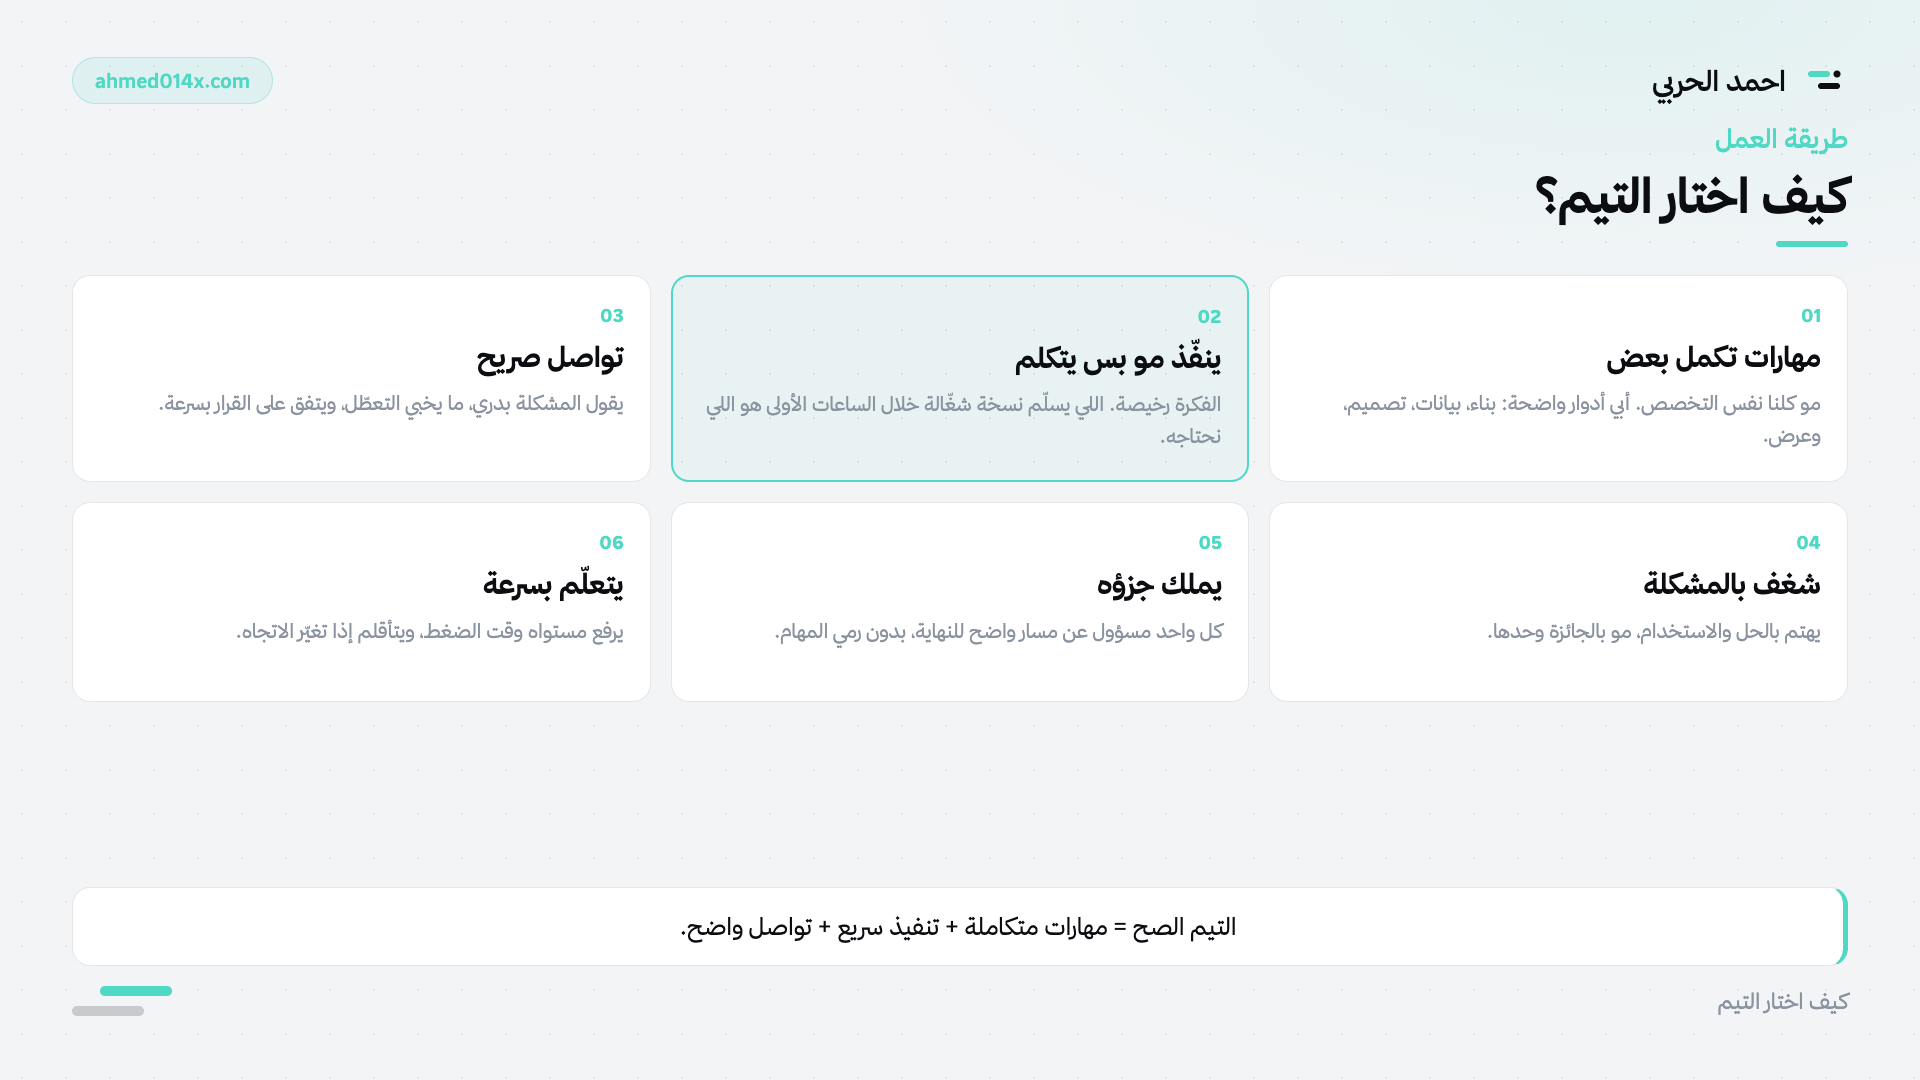
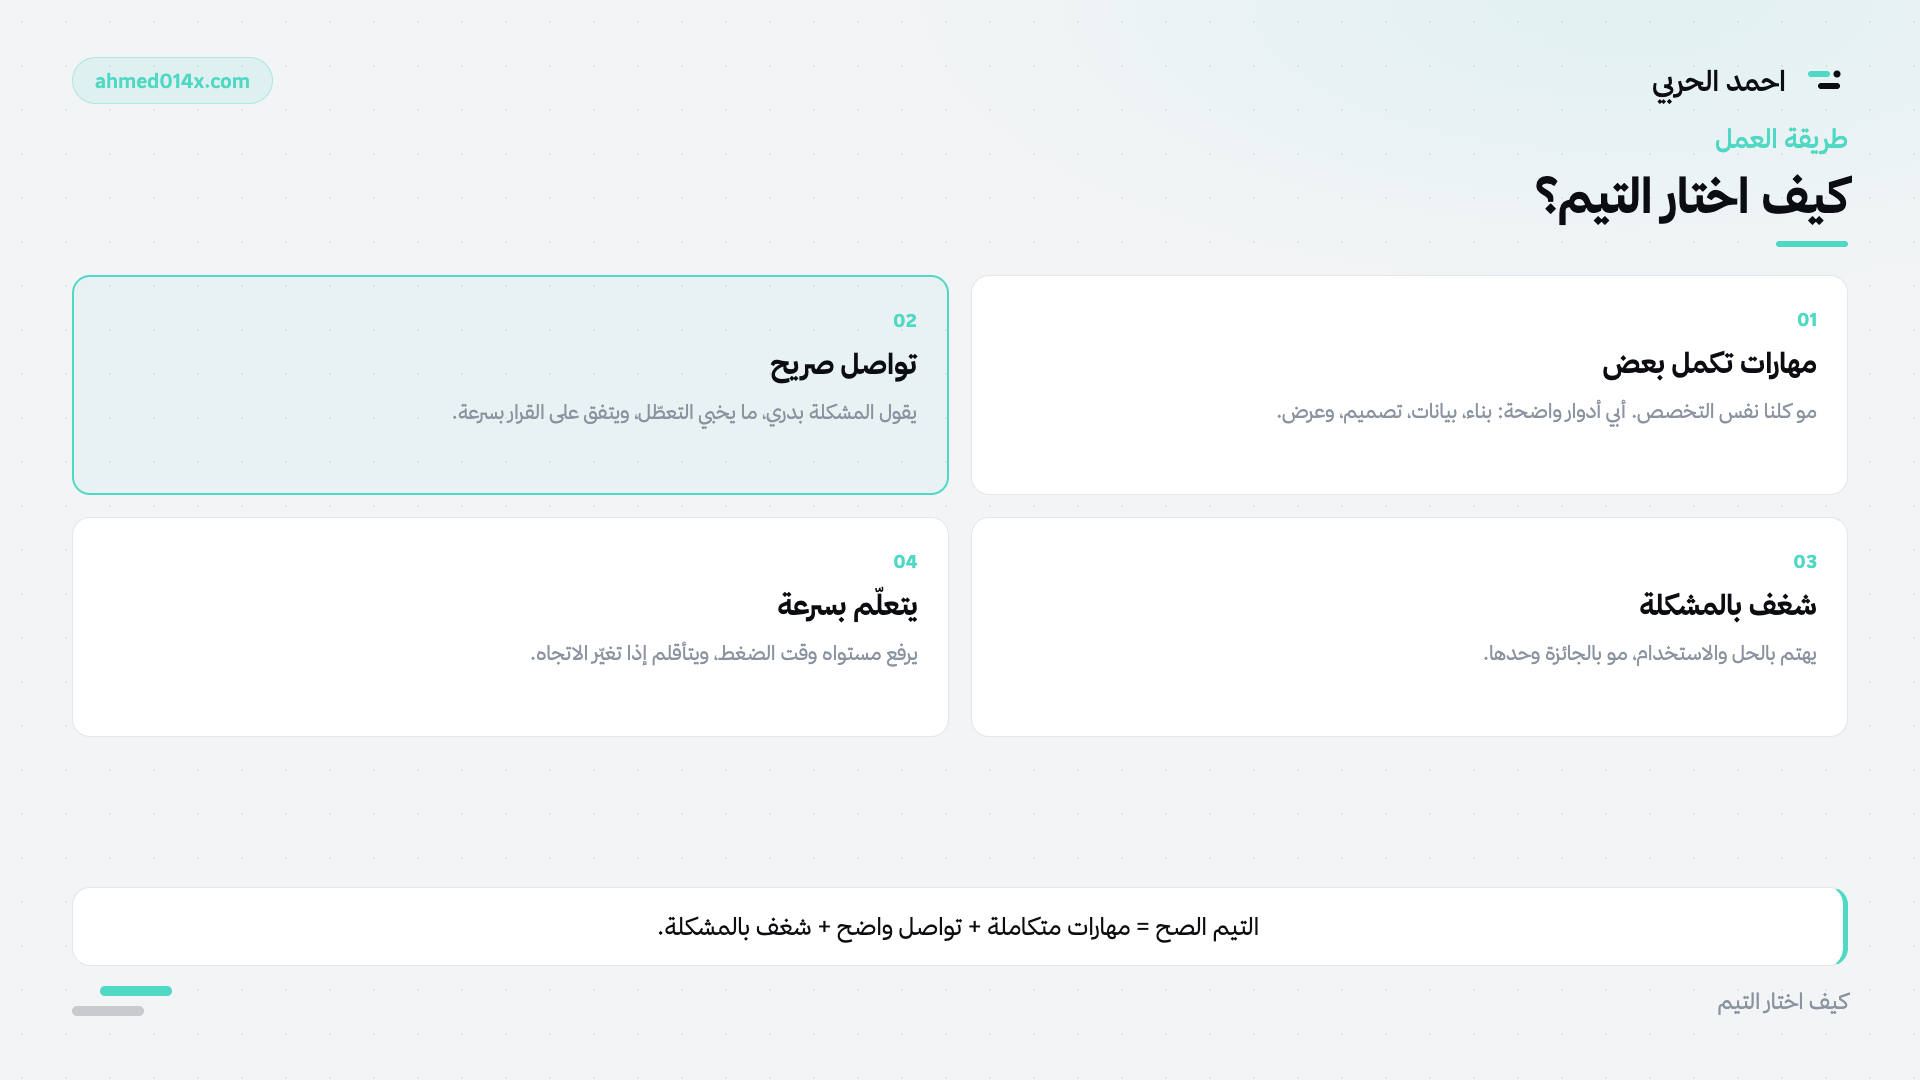
Update team card layout and styling in HTML. Adjusted grid to two columns, modified padding and gap for team cards, and revised team descriptions for clarity. Updated takeaway statement for improved messaging.

diff --git a/brand-package/html/عرض-من-أنا.html b/brand-package/html/عرض-من-أنا.html
@@ -144,8 +144,8 @@ body{margin:0;background:#e8ebee;font-family:'Thmanyah Sans',sans-serif}
 .slide.kushkooli .mark svg rect:first-child{fill:#1d3583}
 .slide.kushkooli .mark svg rect:nth-child(2){fill:#1a2744}
 .slide.kushkooli .mark svg circle{fill:#1a2744}
-.team-grid{display:grid;grid-template-columns:repeat(3,1fr);gap:20px;margin-top:28px;flex:1;align-content:start}
-.team-card{padding:28px 26px;display:flex;flex-direction:column;gap:12px;min-height:200px}
+.team-grid{display:grid;grid-template-columns:repeat(2,1fr);gap:22px;margin-top:28px;flex:1;align-content:start}
+.team-card{padding:32px 30px;display:flex;flex-direction:column;gap:14px;min-height:220px}
 .team-num{font-size:18px;font-weight:700;color:#4fd8c4}
 .team-title{font-size:28px;font-weight:700;line-height:1.3;margin:0}
 .team-desc{font-size:20px;line-height:1.6;color:#8a93a0;margin:0}
@@ -1002,32 +1002,22 @@ body{margin:0;background:#e8ebee;font-family:'Thmanyah Sans',sans-serif}
       </div>
       <div class="card accent team-card">
         <div class="team-num">02</div>
-        <h3 class="team-title">ينفّذ مو بس يتكلم</h3>
-        <p class="team-desc">الفكرة رخيصة. اللي يسلّم نسخة شغّالة خلال الساعات الأولى هو اللي نحتاجه.</p>
-      </div>
-      <div class="card team-card">
-        <div class="team-num">03</div>
         <h3 class="team-title">تواصل صريح</h3>
         <p class="team-desc">يقول المشكلة بدري، ما يخبي التعطّل، ويتفق على القرار بسرعة.</p>
       </div>
       <div class="card team-card">
-        <div class="team-num">04</div>
+        <div class="team-num">03</div>
         <h3 class="team-title">شغف بالمشكلة</h3>
         <p class="team-desc">يهتم بالحل والاستخدام، مو بالجائزة وحدها.</p>
       </div>
       <div class="card team-card">
-        <div class="team-num">05</div>
-        <h3 class="team-title">يملك جزؤه</h3>
-        <p class="team-desc">كل واحد مسؤول عن مسار واضح للنهاية، بدون رمي المهام.</p>
-      </div>
-      <div class="card team-card">
-        <div class="team-num">06</div>
+        <div class="team-num">04</div>
         <h3 class="team-title">يتعلّم بسرعة</h3>
         <p class="team-desc">يرفع مستواه وقت الضغط، ويتأقلم إذا تغيّر الاتجاه.</p>
       </div>
     </div>
 
-    <div class="takeaway" style="margin-top:22px">التيم الصح = مهارات متكاملة + تنفيذ سريع + تواصل واضح.</div>
+    <div class="takeaway" style="margin-top:22px">التيم الصح = مهارات متكاملة + تواصل واضح + شغف بالمشكلة.</div>
   </div>
 
   <div class="footer">
